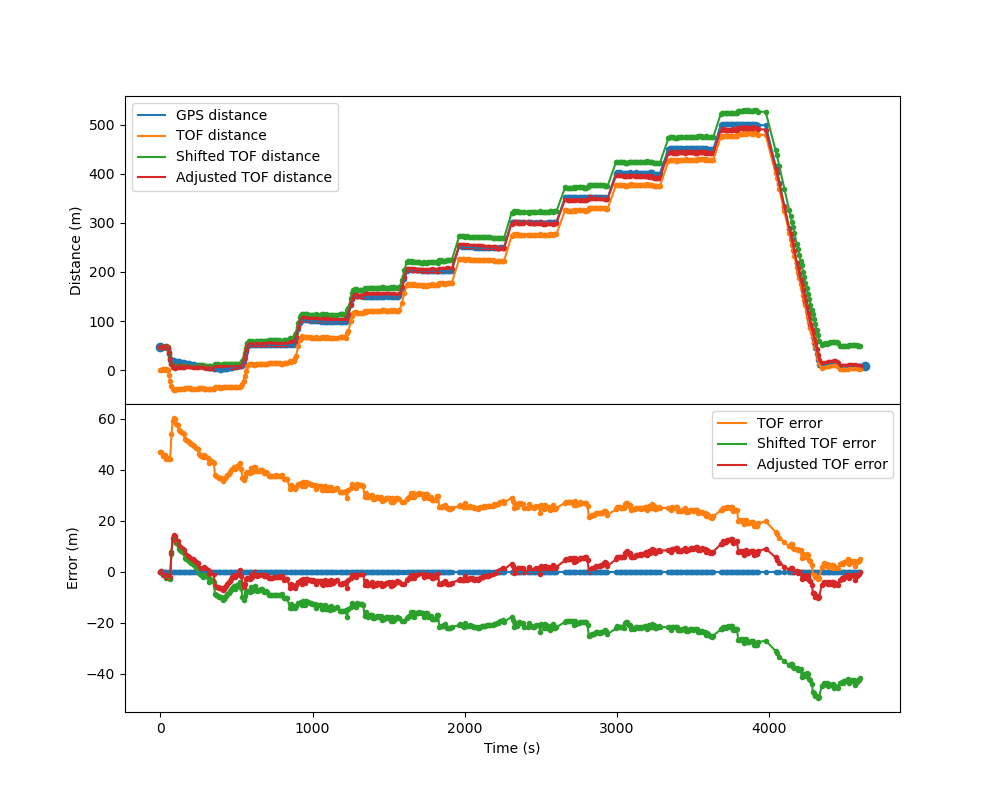
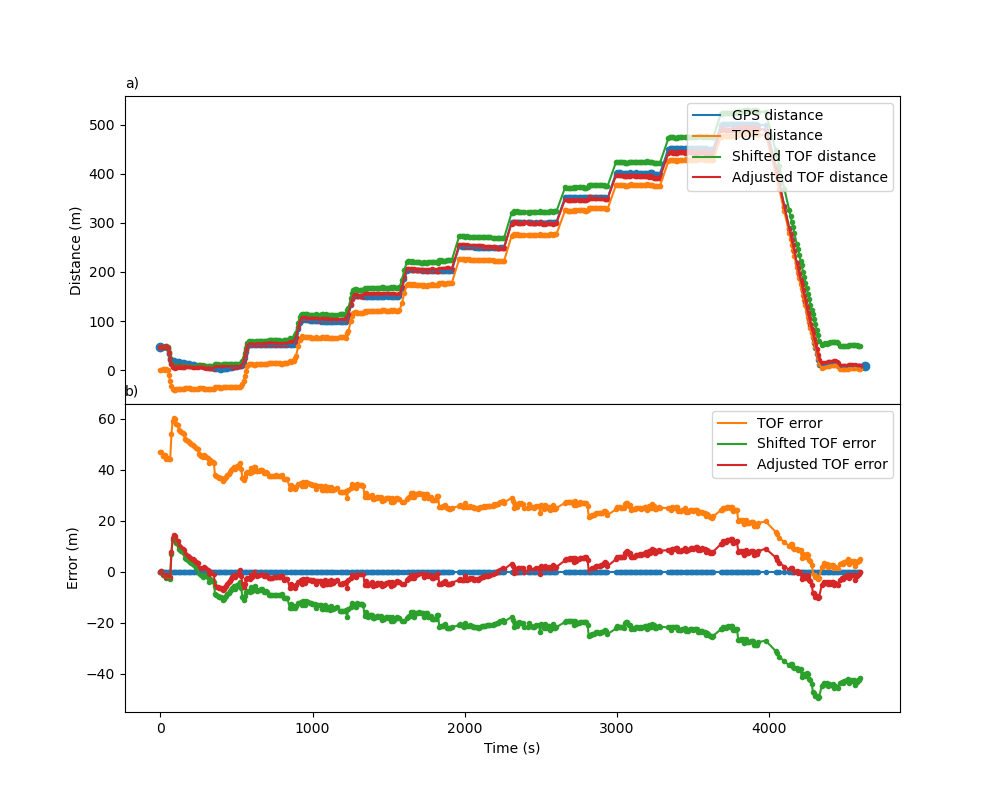
Added function to generate latex tables containing the errors after certain amounts of time

Changed region(s): [[0.682, 0.125, 0.899, 0.25], [0.124, 0.125, 0.341, 0.25]]

diff --git a/scripts/pf.py b/scripts/pf.py
@@ -157,7 +157,11 @@ class ParticleFilter(Filter):
             measurement_covs = np.array([kwargs.get('measurement_cov', [[10, 0], [0, 10]])] * len(times))
             if use_tof:
                 # Use just time of flight ranges
-                measurements = np.array([dataset.hydrophones[serial_no].detections['total_distance'], [0]*len(times)]).T
+                r = dataset.hydrophones[serial_no].detections['total_distance']
+                # r_dot = np.zeros(len(r))
+                r_dot = np.array(dataset.hydrophones[serial_no].detections['delta_distance'] / dataset.hydrophones[serial_no].detections['dt'])
+                r_dot[0] = 0
+                measurements = np.array([r, r_dot]).T
             elif use_groundtruth:
                 # Use groundtruth ranges
                 measurements = np.array([dataset.get_gps_distance(serial_no, times), dataset.get_gps_speed(serial_no, times)]).T
@@ -339,8 +343,8 @@ class ParticleFilter(Filter):
 
             # Add times
             if seconds:
-                coords_times = utils.total_seconds(data.coords.index, data.coords.index[0])
-                detections_times = utils.total_seconds(data.detections.index, data.coords.index[0])
+                coords_times = utils.total_seconds(data.coords.index, dataset.start_time)
+                detections_times = utils.total_seconds(data.detections.index, dataset.start_time)
             else:
                 coords_times = data.coords.index
                 detections_times = data.detections.index
@@ -353,7 +357,7 @@ class ParticleFilter(Filter):
         l, = ax0.plot(x, y, marker='o', label='Tag coords')
         ax0.quiver(x, y, dx, dy, units='xy', angles='xy', scale_units='xy', scale=1, color=l.get_color())
         if seconds:
-            tag_times = utils.total_seconds(dataset.tag.coords.index, dataset.tag.coords.index[0])
+            tag_times = utils.total_seconds(dataset.tag.coords.index, dataset.start_time)
         else:
             tag_times = dataset.tag.coords.index
         if type(dataset.tag.raw) is np.ndarray:
@@ -398,7 +402,9 @@ class ParticleFilter(Filter):
         if show:
             plt.show()
         if save and dataset is not None:
-            savepath = kwargs.get('savepath', utils.add_version('../datasets/{n}/pf_plots/{n}_pf_trajectories.png'.format(n=dataset.name), replace=replace))
+            savepath = utils.add_version(
+                kwargs.get('savepath', '../datasets/{n}/pf_plots/{n}_pf_trajectories.png'.format(n=dataset.name)),
+                replace=replace)
             print('Saving to {}'.format(savepath))
             utils.savefig(fig, savepath, bbox_inches='tight')
         plt.close()
@@ -411,6 +417,7 @@ class ParticleFilter(Filter):
         seconds = kwargs.get('plot_total_seconds', False)
         padding = kwargs.get('padding', 1.1)
         no_titles = kwargs.get('exclude_titles', False)
+        timeout = kwargs.get('timeout', 32)  # Number of seconds before the range stops being plotted
 
         # Set up figure and axes
         if n > 0:
@@ -525,7 +532,6 @@ class ParticleFilter(Filter):
 
             # Fill zoom axes
             for i, (time, ax, label) in enumerate(zip(zoom_times, axs, 'bcdefghijklmnopqrstuvwxyz')):
-
                 if type(time) == int:
                     idx = time
                     timestamp = self._time_history[idx]
@@ -544,7 +550,7 @@ class ParticleFilter(Filter):
                     x, y = data.coords['x'][:timestamp], data.coords['y'][:timestamp]
                     if len(x) > 0 and len(y) > 0:
                         x, y = x[-1], y[-1]
-                    ax.plot(x, y, marker='o', label='{} position'.format(name))
+                    ax.plot(x, y, marker='o', linestyle='None', label='{} position'.format(name))
                     ax.plot([], [])
 
                     # Draw circles showing the last measurement
@@ -555,9 +561,10 @@ class ParticleFilter(Filter):
                     r_std_series = pd.Series(
                         np.sqrt(self._measurement_cov_history[self._hydrophone_history == name, 0, 0]),
                         index=self._time_history[self._step_history == Filter.CORRECTION][self._hydrophone_history == name])
-                    r = Dataset.get(r_series, timestamp, mode='last')[1]
+                    r_idx, r = Dataset.get(r_series, timestamp, mode='last')
                     r_std = Dataset.get(r_std_series, timestamp, mode='last')[1]
-                    if r is None or pos is None:
+                    timed_out = (timestamp - r_series.index[r_idx]).total_seconds() > timeout
+                    if r is None or pos is None or timed_out:
                         pos = (0, 0)
                         r = 0
                         r_std = 0
@@ -602,10 +609,68 @@ class ParticleFilter(Filter):
         if show:
             plt.show()
         if save and dataset is not None:
-            savepath = kwargs.get('savepath', utils.add_version('../datasets/{n}/pf_plots/{n}_pf_error.png'.format(n=dataset.name), replace=replace))
+            savepath = utils.add_version(
+                kwargs.get('savepath', '../datasets/{n}/pf_plots/{n}_pf_error.png'.format(n=dataset.name)),
+                replace=replace)
             print('Saving to {}'.format(savepath))
             utils.savefig(fig, savepath, bbox_inches='tight')
         plt.close()
+
+    def tabulate_error(self, dataset, save=False, replace=False, **kwargs):
+        times = kwargs.get('times', [0])
+
+        # Calculate errors
+        avg_particle = np.average(self._history, axis=1)  # Find the average particle at each time step
+        true_x, true_y = dataset.get_tag_xy(self._time_history).T
+        x_error = true_x - avg_particle[:, 0]
+        y_error = true_y - avg_particle[:, 1]
+        dist = np.sqrt(np.square(x_error) + np.square(y_error))
+
+        # Tabular environment
+        table_format =\
+            '\\begin{{tabular}}{{rccc}}\\toprule\n' +\
+            '\tError (m) & Max/Min & Average & Standard Deviation \\\\ \\midrule\n' +\
+            '{}\t\\bottomrule\n' +\
+            '\\end{{tabular}}'
+
+        # One inner table for each time
+        inner_table_format =\
+            '\t\\multicolumn{{4}}{{c}}{{From {seconds:.0f} seconds}} \\\\\n' +\
+            '\tx error & {:.2f} & {:.2f} & {:.2f} \\\\\n' +\
+            '\ty error & {:.2f} & {:.2f} & {:.2f} \\\\\n' +\
+            '\tdistance & {:.2f} & {:.2f} & {:.2f} \\\\\n'
+
+        separator = '\t\\midrule\n'
+
+        # Calculate for each time
+        inner_tables = []
+        for time in times:
+            if type(time) == int:
+                idx = time
+            else:
+                idx = max(bisect.bisect_left(self._time_history, time), 0)
+            x_error_t = x_error[idx:]
+            y_error_t = y_error[idx:]
+            dist_t = dist[idx:]
+            x_data = [max(np.max(x_error_t), np.min(x_error_t), key=np.abs), np.average(x_error_t), np.std(x_error_t)]
+            y_data = [max(np.max(y_error_t), np.min(y_error_t), key=np.abs), np.average(y_error_t), np.std(y_error_t)]
+            dist_data = [np.max(dist_t), np.average(dist_t), np.std(dist_t)]
+            seconds = (self._time_history[idx] - self._time_history[0]).total_seconds()
+            inner_tables.append(inner_table_format.format(*x_data, *y_data, *dist_data, seconds=seconds))
+        inner_tables = separator.join(inner_tables)
+        table = table_format.format(inner_tables)
+
+        # Display table
+        print(table)
+
+        # Save table
+        if save and dataset is not None:
+            savepath = utils.add_version(
+                kwargs.get('savepath', '../datasets/{n}/pf_plots/{n}_pf_error_table.txt'.format(n=dataset.name)),
+                replace=replace)
+            print('Saving to {}'.format(savepath))
+            with open(savepath, 'w') as f:
+                print(table, end='', file=f)
 
     def animate(self, dataset, padding=1.1, show=True, save=False, replace=False):
         # Make sure we have the data to plot
@@ -781,6 +846,20 @@ class ParticleFilter(Filter):
 
 if __name__ == '__main__':
     save = True
+    replace = True
+
+    # dataset = Dataset('tag78_static_two_clusters', shift_tof=True)
+    # pf = ParticleFilter.from_dataset(dataset, 1000, RandomMotionModel, motion_model_params={
+    #             'init_uniform_random': [(-200, 100), (-150, 150)]
+    #         }, save_history=True, hydrophone_params={
+    #             'VR100': {'m': -0.10527966, 'l': -0.55164737, 'b': 68.59493072, 'signal_var': 1000, 'ff': 0.1, 'initial_r': 0},
+    #             457049: {'m': -0.20985953, 'l': 5.5568182, 'b': 76.90064068, 'signal_var': 1000, 'ff': 0.1, 'initial_r': 0}
+    #         }, use_tof=True, measurement_cov=np.array([[10, 0], [0, 10]]))
+    # pf.run()
+    # pf.animate(dataset, save=False)
+    # pf.plot(dataset, show=True, save=save, replace=replace, exclude_titles=True, plot_total_seconds=True, width=6.5)
+    # pf.plot_error(dataset, show=True, save=save, replace=replace, exclude_titles=True, plot_total_seconds=True, zoom_times=[0, dataset.start_time + timedelta(seconds=50), dataset.start_time + timedelta(seconds=100), -1], ratio=1, width=6.5)
+
     dataset = Dataset('tag78_swimming_test_1_2', shift_tof=True)
     pf = ParticleFilter.from_dataset(dataset, 1000, RandomMotionModel, motion_model_params={
                 'init_uniform_random': [(0, 200), (-150, 50)]
@@ -789,19 +868,57 @@ if __name__ == '__main__':
                 457049: {'m': -0.20985953, 'l': 5.5568182, 'b': 76.90064068, 'signal_var': 1000, 'ff': 0.1, 'initial_r': 0}
             }, use_tof=True, measurement_cov=np.array([[10, 0], [0, 10]]))
     pf.run()
-    pf.plot(dataset, show=True, save=save, exclude_titles=True, plot_total_seconds=True, width=6.5, savepath='../paper/fig0.png')
-    pf.plot_error(dataset, show=True, save=save, exclude_titles=True, plot_total_seconds=True, zoom_times=[0, 20, 200, -1], ratio=1, width=6.5, savepath='../paper/fig1.png')
+    pf.plot(dataset, show=True, save=save, replace=replace, exclude_titles=True, plot_total_seconds=True, width=6.5, savepath='../paper/fig0.png')
+    pf.plot_error(dataset, show=True, save=save, replace=replace, exclude_titles=True, plot_total_seconds=True, zoom_times=[0, 20, dataset.start_time + timedelta(seconds=41), 200, -6], ratio=1, width=6.5, savepath='../paper/fig1.png')
+    pf.tabulate_error(dataset, save=save, replace=replace, times=[0, dataset.start_time + timedelta(seconds=30)], savepath='../paper/fig1_errors.txt')
 
-    dataset = Dataset('tag78_shore_2_boat_all_static_test_0', shift_tof=True)
-    pf = ParticleFilter.from_dataset(dataset, 1000, RandomMotionModel, motion_model_params={
-                'init_uniform_random': [(0, 200), (-150, 50)]
-            }, save_history=True, hydrophone_params={
-                'VR100': {'m': -0.10527966, 'l': -0.55164737, 'b': 68.59493072, 'signal_var': 1000, 'ff': 0.1, 'initial_r': 0},
-                457049: {'m': -0.20985953, 'l': 5.5568182, 'b': 76.90064068, 'signal_var': 1000, 'ff': 0.1, 'initial_r': 0}
-            }, use_tof=True, measurement_cov=np.array([[10, 0], [0, 10]]))
-    pf.run()
-    pf.plot(dataset, show=True, save=save, exclude_titles=True, plot_total_seconds=True, width=6.5, savepath='../paper/fig2.png')
-    pf.plot_error(dataset, show=True, save=save, exclude_titles=True, plot_total_seconds=True, zoom_times=[0, dataset.start_time + timedelta(seconds=44), dataset.start_time + timedelta(seconds=60.5), dataset.start_time + timedelta(seconds=400), -1], ratio=1, width=6.5, savepath='../paper/fig3.png')
+    # dataset = Dataset('tag78_shore_2_boat_all_static_test_0', shift_tof=True)
+    # pf = ParticleFilter.from_dataset(dataset, 1000, RandomMotionModel, motion_model_params={
+    #             'init_uniform_random': [(0, 200), (-150, 50)]
+    #         }, save_history=True, hydrophone_params={
+    #             'VR100': {'m': -0.10527966, 'l': -0.55164737, 'b': 68.59493072, 'signal_var': 1000, 'ff': 0.1, 'initial_r': 0},
+    #             457049: {'m': -0.20985953, 'l': 5.5568182, 'b': 76.90064068, 'signal_var': 1000, 'ff': 0.1, 'initial_r': 0}
+    #         }, use_tof=True, measurement_cov=np.array([[10, 0], [0, 10]]))
+    # pf.run()
+    # pf.plot(dataset, show=True, save=save, replace=replace, exclude_titles=True, plot_total_seconds=True, width=6.5, savepath='../paper/fig2.png')
+    # pf.plot_error(dataset, show=True, save=save, replace=replace, exclude_titles=True, plot_total_seconds=True, zoom_times=[0, dataset.start_time + timedelta(seconds=44), dataset.start_time + timedelta(seconds=60.5), dataset.start_time + timedelta(seconds=400), -2], ratio=1, width=6.5, savepath='../paper/fig3.png')
+    # pf.tabulate_error(dataset, save=save, replace=replace, times=[0, dataset.start_time + timedelta(seconds=61)], savepath='../paper/fig3_errors.txt')
+
+    # dataset = Dataset('tag78_swimming_test_0', shift_tof=True)
+    # pf = ParticleFilter.from_dataset(dataset, 1000, RandomMotionModel, motion_model_params={
+    #             'init_uniform_random': [(-50, 150), (-50, 150)]
+    #         }, save_history=True, hydrophone_params={
+    #             'VR100': {'m': -0.10527966, 'l': -0.55164737, 'b': 68.59493072, 'signal_var': 1000, 'ff': 0.1, 'initial_r': 0},
+    #             457049: {'m': -0.20985953, 'l': 5.5568182, 'b': 76.90064068, 'signal_var': 1000, 'ff': 0.1, 'initial_r': 0}
+    #         }, use_tof=True, measurement_cov=np.array([[10, 0], [0, 10]]))
+    # pf.run()
+    # pf.animate(dataset)
+    # pf.plot(dataset, show=True, save=save, replace=replace, exclude_titles=True, plot_total_seconds=True, width=6.5)
+    # pf.plot_error(dataset, show=True, save=save, replace=replace, exclude_titles=True, plot_total_seconds=True, zoom_times=[0, -1], ratio=1, width=6.5)
+
+    # dataset = Dataset('tag78_swimming_test_1_3', shift_tof=True)
+    # pf = ParticleFilter.from_dataset(dataset, 1000, RandomMotionModel, motion_model_params={
+    #             'init_uniform_random': [(-150, 100), (-200, 50)]
+    #         }, save_history=True, hydrophone_params={
+    #             'VR100': {'m': -0.10527966, 'l': -0.55164737, 'b': 68.59493072, 'signal_var': 1000, 'ff': 0.1, 'initial_r': 0},
+    #             457049: {'m': -0.20985953, 'l': 5.5568182, 'b': 76.90064068, 'signal_var': 1000, 'ff': 0.1, 'initial_r': 0}
+    #         }, use_tof=True, measurement_cov=np.array([[10, 0], [0, 10]]))
+    # pf.run()
+    # pf.animate(dataset)
+    # pf.plot(dataset, show=True, save=save, replace=replace, exclude_titles=True, plot_total_seconds=True, width=6.5)
+    # pf.plot_error(dataset, show=True, save=save, replace=replace, exclude_titles=True, plot_total_seconds=True, zoom_times=[0, -1], ratio=1, width=6.5)
+
+    # dataset = Dataset('tag78_shore_2_boat_all_static_test_1', shift_tof=True)
+    # pf = ParticleFilter.from_dataset(dataset, 1000, RandomMotionModel, motion_model_params={
+    #             'init_uniform_random': [(-200, 100), (-150, 150)]
+    #         }, save_history=True, hydrophone_params={
+    #             'VR100': {'m': -0.10527966, 'l': -0.55164737, 'b': 68.59493072, 'signal_var': 1000, 'ff': 0.1, 'initial_r': 0},
+    #             457049: {'m': -0.20985953, 'l': 5.5568182, 'b': 76.90064068, 'signal_var': 1000, 'ff': 0.1, 'initial_r': 0}
+    #         }, use_tof=True, measurement_cov=np.array([[10, 0], [0, 10]]))
+    # pf.run()
+    # pf.animate(dataset)
+    # pf.plot(dataset, show=True, save=save, replace=replace, exclude_titles=True, plot_total_seconds=True, width=6.5)
+    # pf.plot_error(dataset, show=True, save=save, replace=replace, exclude_titles=True, plot_total_seconds=True, zoom_times=[0, -1], ratio=1, width=6.5)
 
     # dataset = Dataset('tag78_shore_2_boat_all_static_test_1', shift_tof=True)
     # dataset = Dataset('tag78_shore_2_boat_all_static_test_0', shift_tof=True)
@@ -814,3 +931,5 @@ if __name__ == '__main__':
     #     'VR100': {'m': -0.10527966, 'l': -0.55164737, 'b': 68.59493072, 'signal_var': 16.250003, 'ff': 0.3},
     #     457049: {'m': -0.20985953, 'l': 5.5568182, 'b': 76.90064068, 'signal_var': 9.400336, 'ff': 0.3}
     # }
+
+    # pf.animate(dataset)

diff --git a/scripts/dataset.py b/scripts/dataset.py
@@ -36,9 +36,13 @@ class Dataset():
         self.name = name
         self.attrs = kwargs
         kwargs['from'] = name
+        encountered_names = set()
 
         while 'from' in self.attrs:
             from_name = self.attrs['from']
+            if from_name in encountered_names:
+                raise ValueError('Recursive definition: {} depends on itself'.format(name))
+            encountered_names.add(name)
             old_attrs = self.attrs
             self.attrs = datasets[from_name]
 
@@ -150,15 +154,19 @@ class Dataset():
                 index=[start_time, end_time])
         coords['x'], coords['y'] = utils.to_cartesian(np.array(coords).T, self.origin).T
 
-        # Find the start time and end time for the whole data frame
+        # Find the start time and end time for the whole dataset
         if start_time is None:
             for data in self.hydrophones.values():
                 if start_time is None or start_time > data.raw.index[0]:
                     start_time = data.raw.index[0]
+            if start_time is None or start_time > coords.index[0]:
+                start_time = coords.index[0]
         if end_time is None:
             for data in self.hydrophones.values():
                 if end_time is None or end_time < data.raw.index[-1]:
                     end_time = data.raw.index[-1]
+            if end_time is None or start_time < coords.index[-1]:
+                end_time = coords.index[-1]
 
         # Fill in tag data
         self.tag = TagData(raw, tag_id, utils.avg_dt_dict.get(tag_id, np.nan), coords)
@@ -410,8 +418,8 @@ class Dataset():
         for name, data in self.hydrophones.items():
             # Plot total seconds or timestamps
             if seconds:
-                coords_times = utils.total_seconds(data.coords.index, data.coords.index[0])
-                detections_times = utils.total_seconds(data.detections.index, data.coords.index[0])
+                coords_times = utils.total_seconds(data.coords.index, dataset.start_time)
+                detections_times = utils.total_seconds(data.detections.index, dataset.start_time)
             else:
                 coords_times = data.coords.index
                 detections_times = data.detections.index
@@ -438,7 +446,7 @@ class Dataset():
         l, = ax0.plot(x, y, marker='.', label='Tag coords')
         ax0.quiver(x, y, dx, dy, units='xy', angles='xy', scale_units='xy', scale=1, width=0.00001, color=l.get_color())
         if seconds:  # Plot total seconds or timestamps
-            tag_times = utils.total_seconds(self.tag.coords.index, self.tag.coords.index[0])
+            tag_times = utils.total_seconds(self.tag.coords.index, dataset.start_time)
         else:
             tag_times = self.tag.coords.index
         if type(self.tag.raw) is np.ndarray:
@@ -495,7 +503,9 @@ class Dataset():
         if show:
             plt.show()
         if save:
-            savepath = kwargs.get('savepath', utils.add_version('../datasets/{n}/{n}_summary.png'.format(n=self.name), replace=replace))
+            savepath = utils.add_version(
+                kwargs.get('savepath', '../datasets/{n}/{n}_summary.png'.format(n=self.name)),
+                replace=replace)
             print('Saving to {}'.format(savepath))
             utils.savefig(fig, savepath, bbox_inches='tight')
         plt.close()
@@ -601,7 +611,9 @@ class Dataset():
         if show:
             plt.show()
         if save:
-            savepath = kwargs.get('savepath', utils.add_version('../datasets/{n}/{n}_tof_vs_gps.png'.format(n=self.name), replace=replace))
+            savepath = utils.add_version(
+                kwargs.get('savepath', '../datasets/{n}/{n}_tof_vs_gps.png'.format(n=self.name)),
+                replace=replace)
             print('Saving to {}'.format(savepath))
             utils.savefig(fig, savepath)
         plt.close()
@@ -654,10 +666,11 @@ class Dataset():
         ax0.scatter(x, tof_distances, marker='.')
         ax0.scatter(x, shifted_tof_distances, marker='.')
         ax0.scatter(x, adjusted_tof_distances, marker='.')
-        ax0.legend()
+        ax0.legend(loc='upper right')
         if not no_titles:
             ax0.set_title('Hydrophone {}'.format(name))
         ax0.set_ylabel('Distance (m)')
+        ax0.set_title('a)', loc='left', fontsize='medium')
 
         # Axis 1
         # Plot errors
@@ -678,12 +691,13 @@ class Dataset():
         ax1.scatter(x, gps_distances - tof_distances, marker='.')
         ax1.scatter(x, gps_distances - shifted_tof_distances, marker='.')
         ax1.scatter(x, gps_distances - adjusted_tof_distances, marker='.')
-        ax1.legend()
+        ax1.legend(loc='upper right')
         ax1.set_ylabel('Error (m)')
         if seconds:
             ax1.set_xlabel('Time (s)')
         else:
             ax1.set_xlabel('Time')
+        ax1.set_title('b)', loc='left', fontsize='medium')
 
         if not no_titles:
             fig.suptitle('{} tof vs gps'.format(self.name))
@@ -691,15 +705,21 @@ class Dataset():
         if show:
             plt.show()
         if save:
-            savepath = kwargs.get('savepath', utils.add_version('../datasets/{n}/{n}_tof_vs_gps.png'.format(n=self.name), replace=replace))
+            savepath = utils.add_version(
+                kwargs.get('savepath', '../datasets/{n}/{n}_tof_vs_gps.png'.format(n=self.name)),
+                replace=replace)
             print('Saving to {}'.format(savepath))
             utils.savefig(fig, savepath)
         plt.close()
 
 if __name__ == '__main__':
-    # dataset = Dataset('tag78_swimming_test_1_2')
+    dataset = Dataset('tag78_static_two_clusters')
+    dataset.plot(save=True, replace=True, exclude_titles=True, plot_total_seconds=True, ratio=7, width=7, legend_outside=False)
+    dataset.plot_tof_vs_gps(save=True, replace=True)
+
     # dataset = Dataset('tag78_shore_2_boat_all_static_test_0')
-    dataset = Dataset('tag78_50m_increment_long_beach_test_0', end_time=datetime.fromisoformat('2022-06-08 09:56'))
+    # dataset = Dataset('tag78_50m_increment_long_beach_test_0', end_time=datetime.fromisoformat('2022-06-08 09:56'))
     # dataset.plot(save=True, replace=True, exclude_titles=True, plot_total_seconds=True, savepath='../paper/fig6.png', ratio=7, width=7, legend_outside=False)
     # dataset.plot_tof_vs_gps(save=False)
-    dataset.plot_range_error(457012, show=True, save=True, exclude_titles=True, width=10, plot_total_seconds=True, savepath='../paper/fig_stairs.png')
+
+    # dataset.plot_range_error(457049, show=True, save=False, exclude_titles=True, width=10, plot_total_seconds=True, savepath='../paper/fig_stairs.png')
